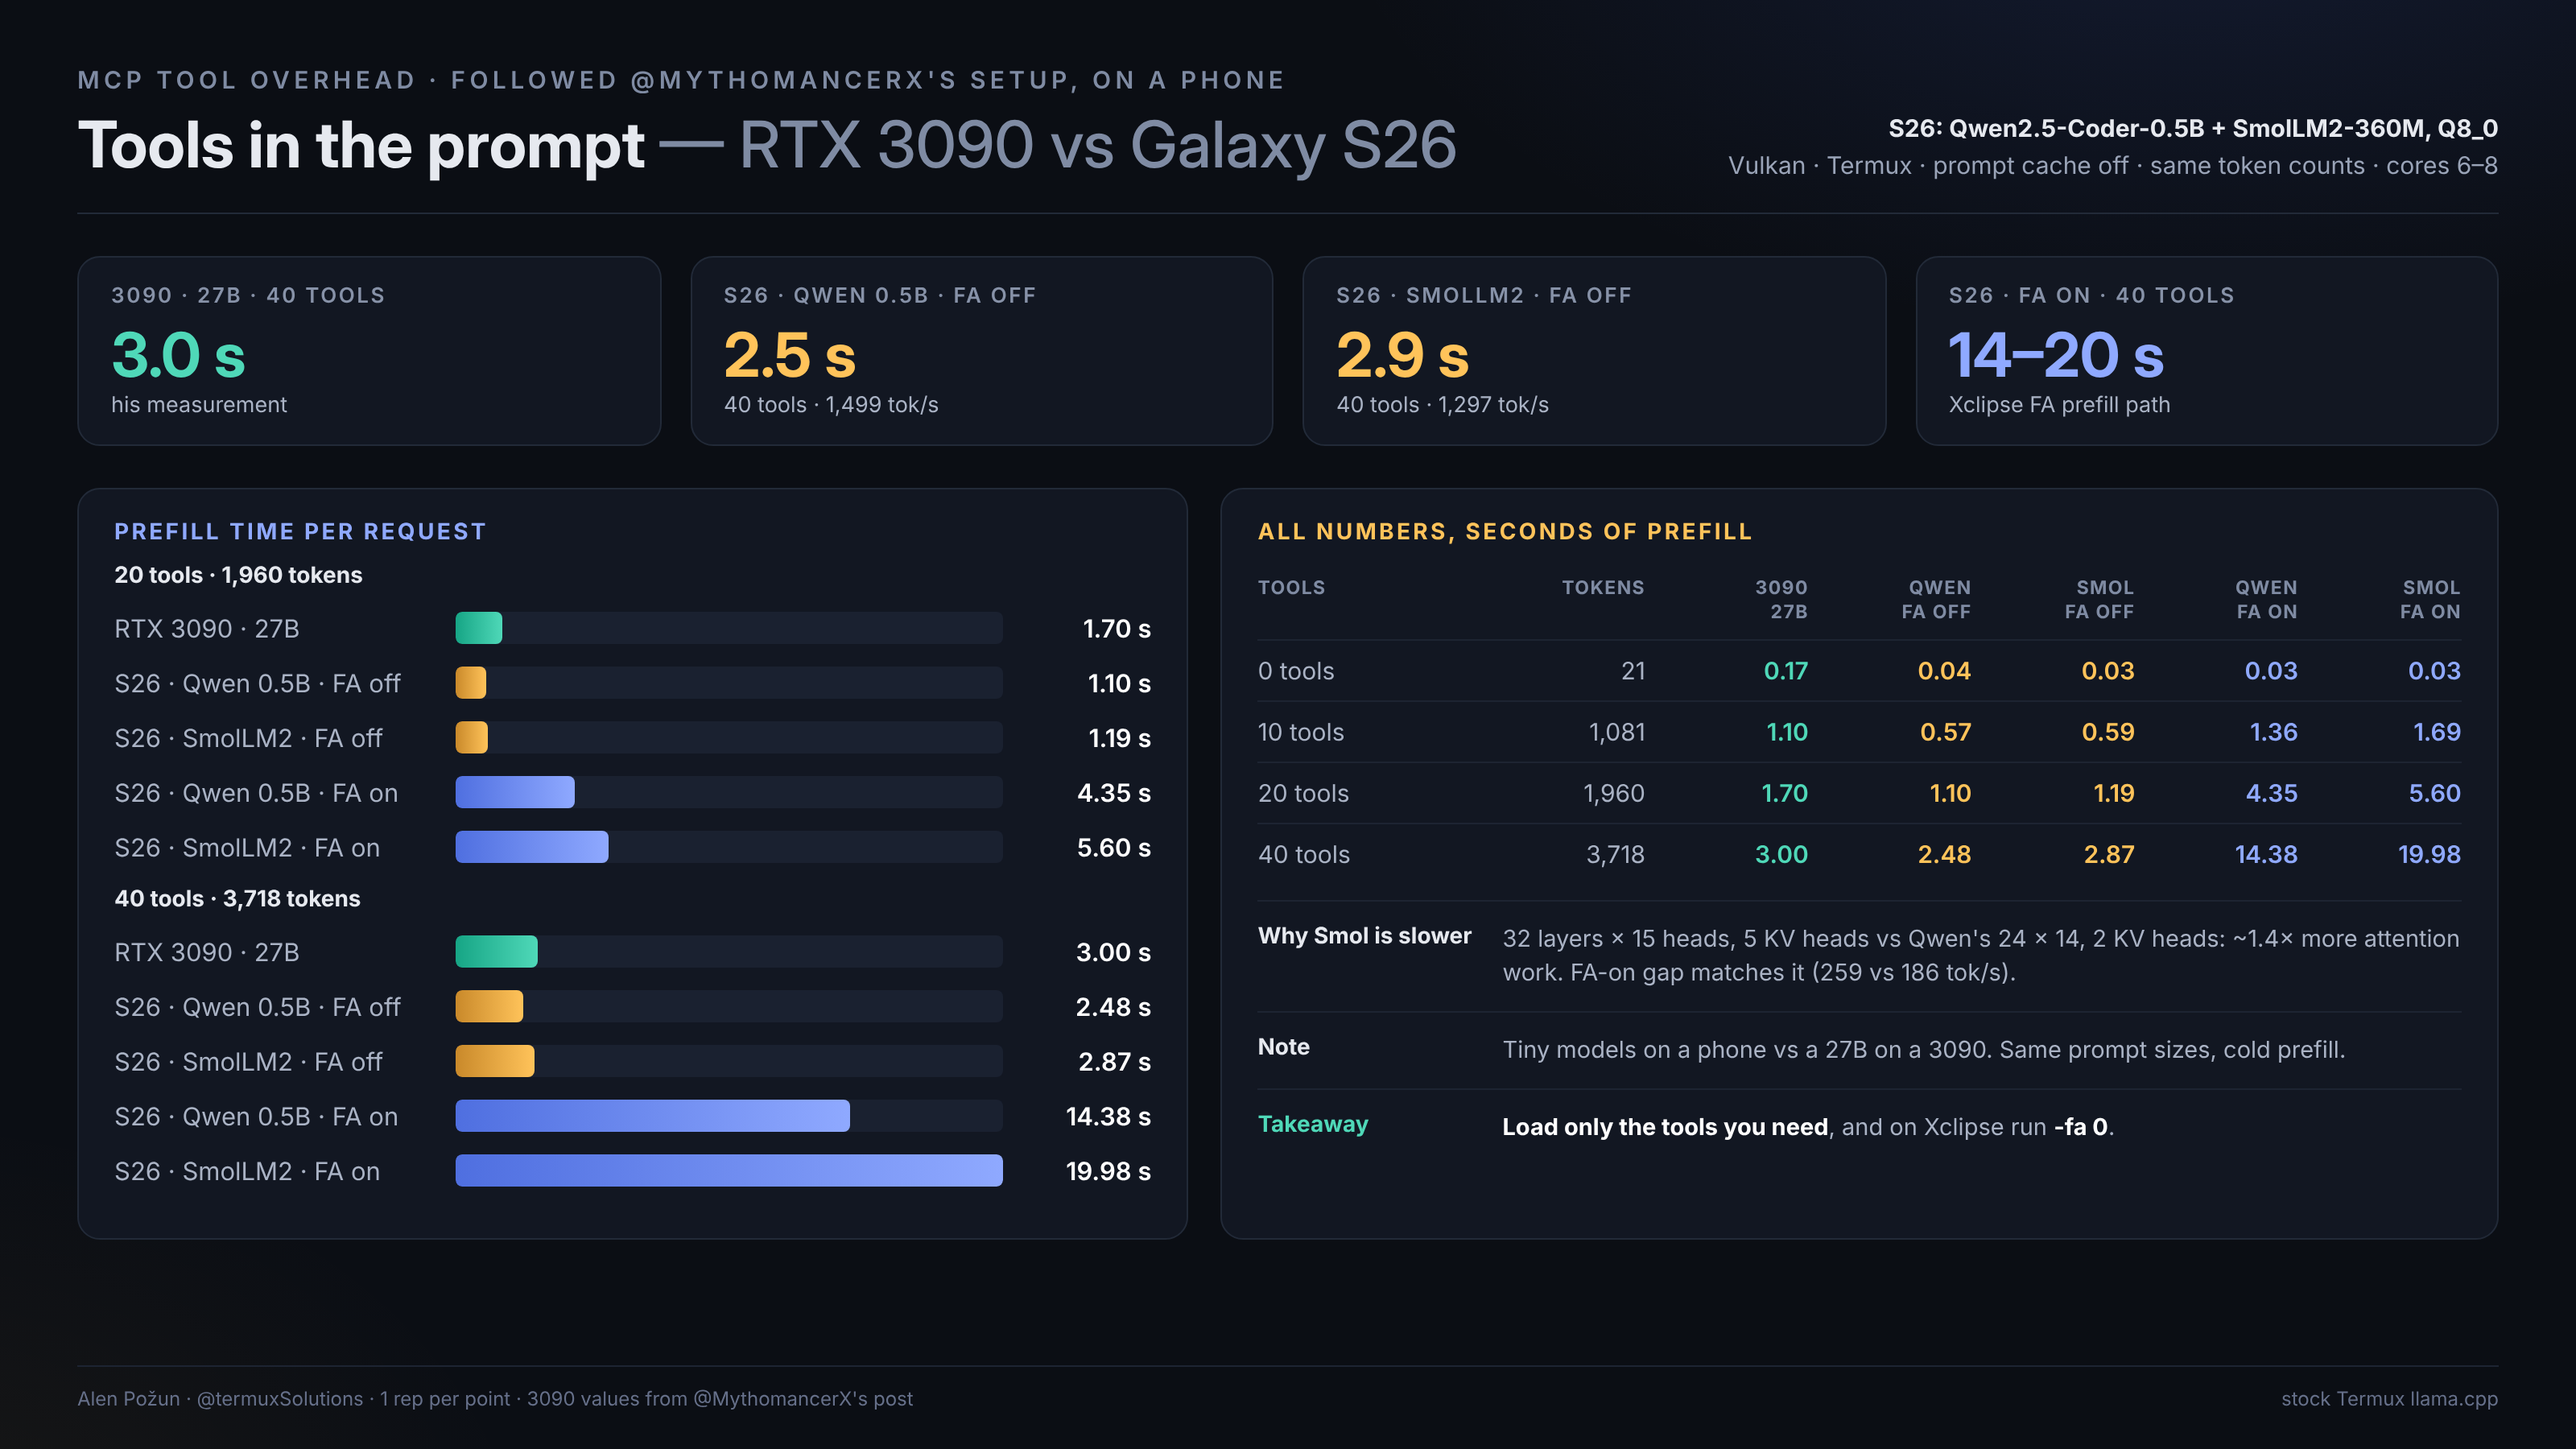
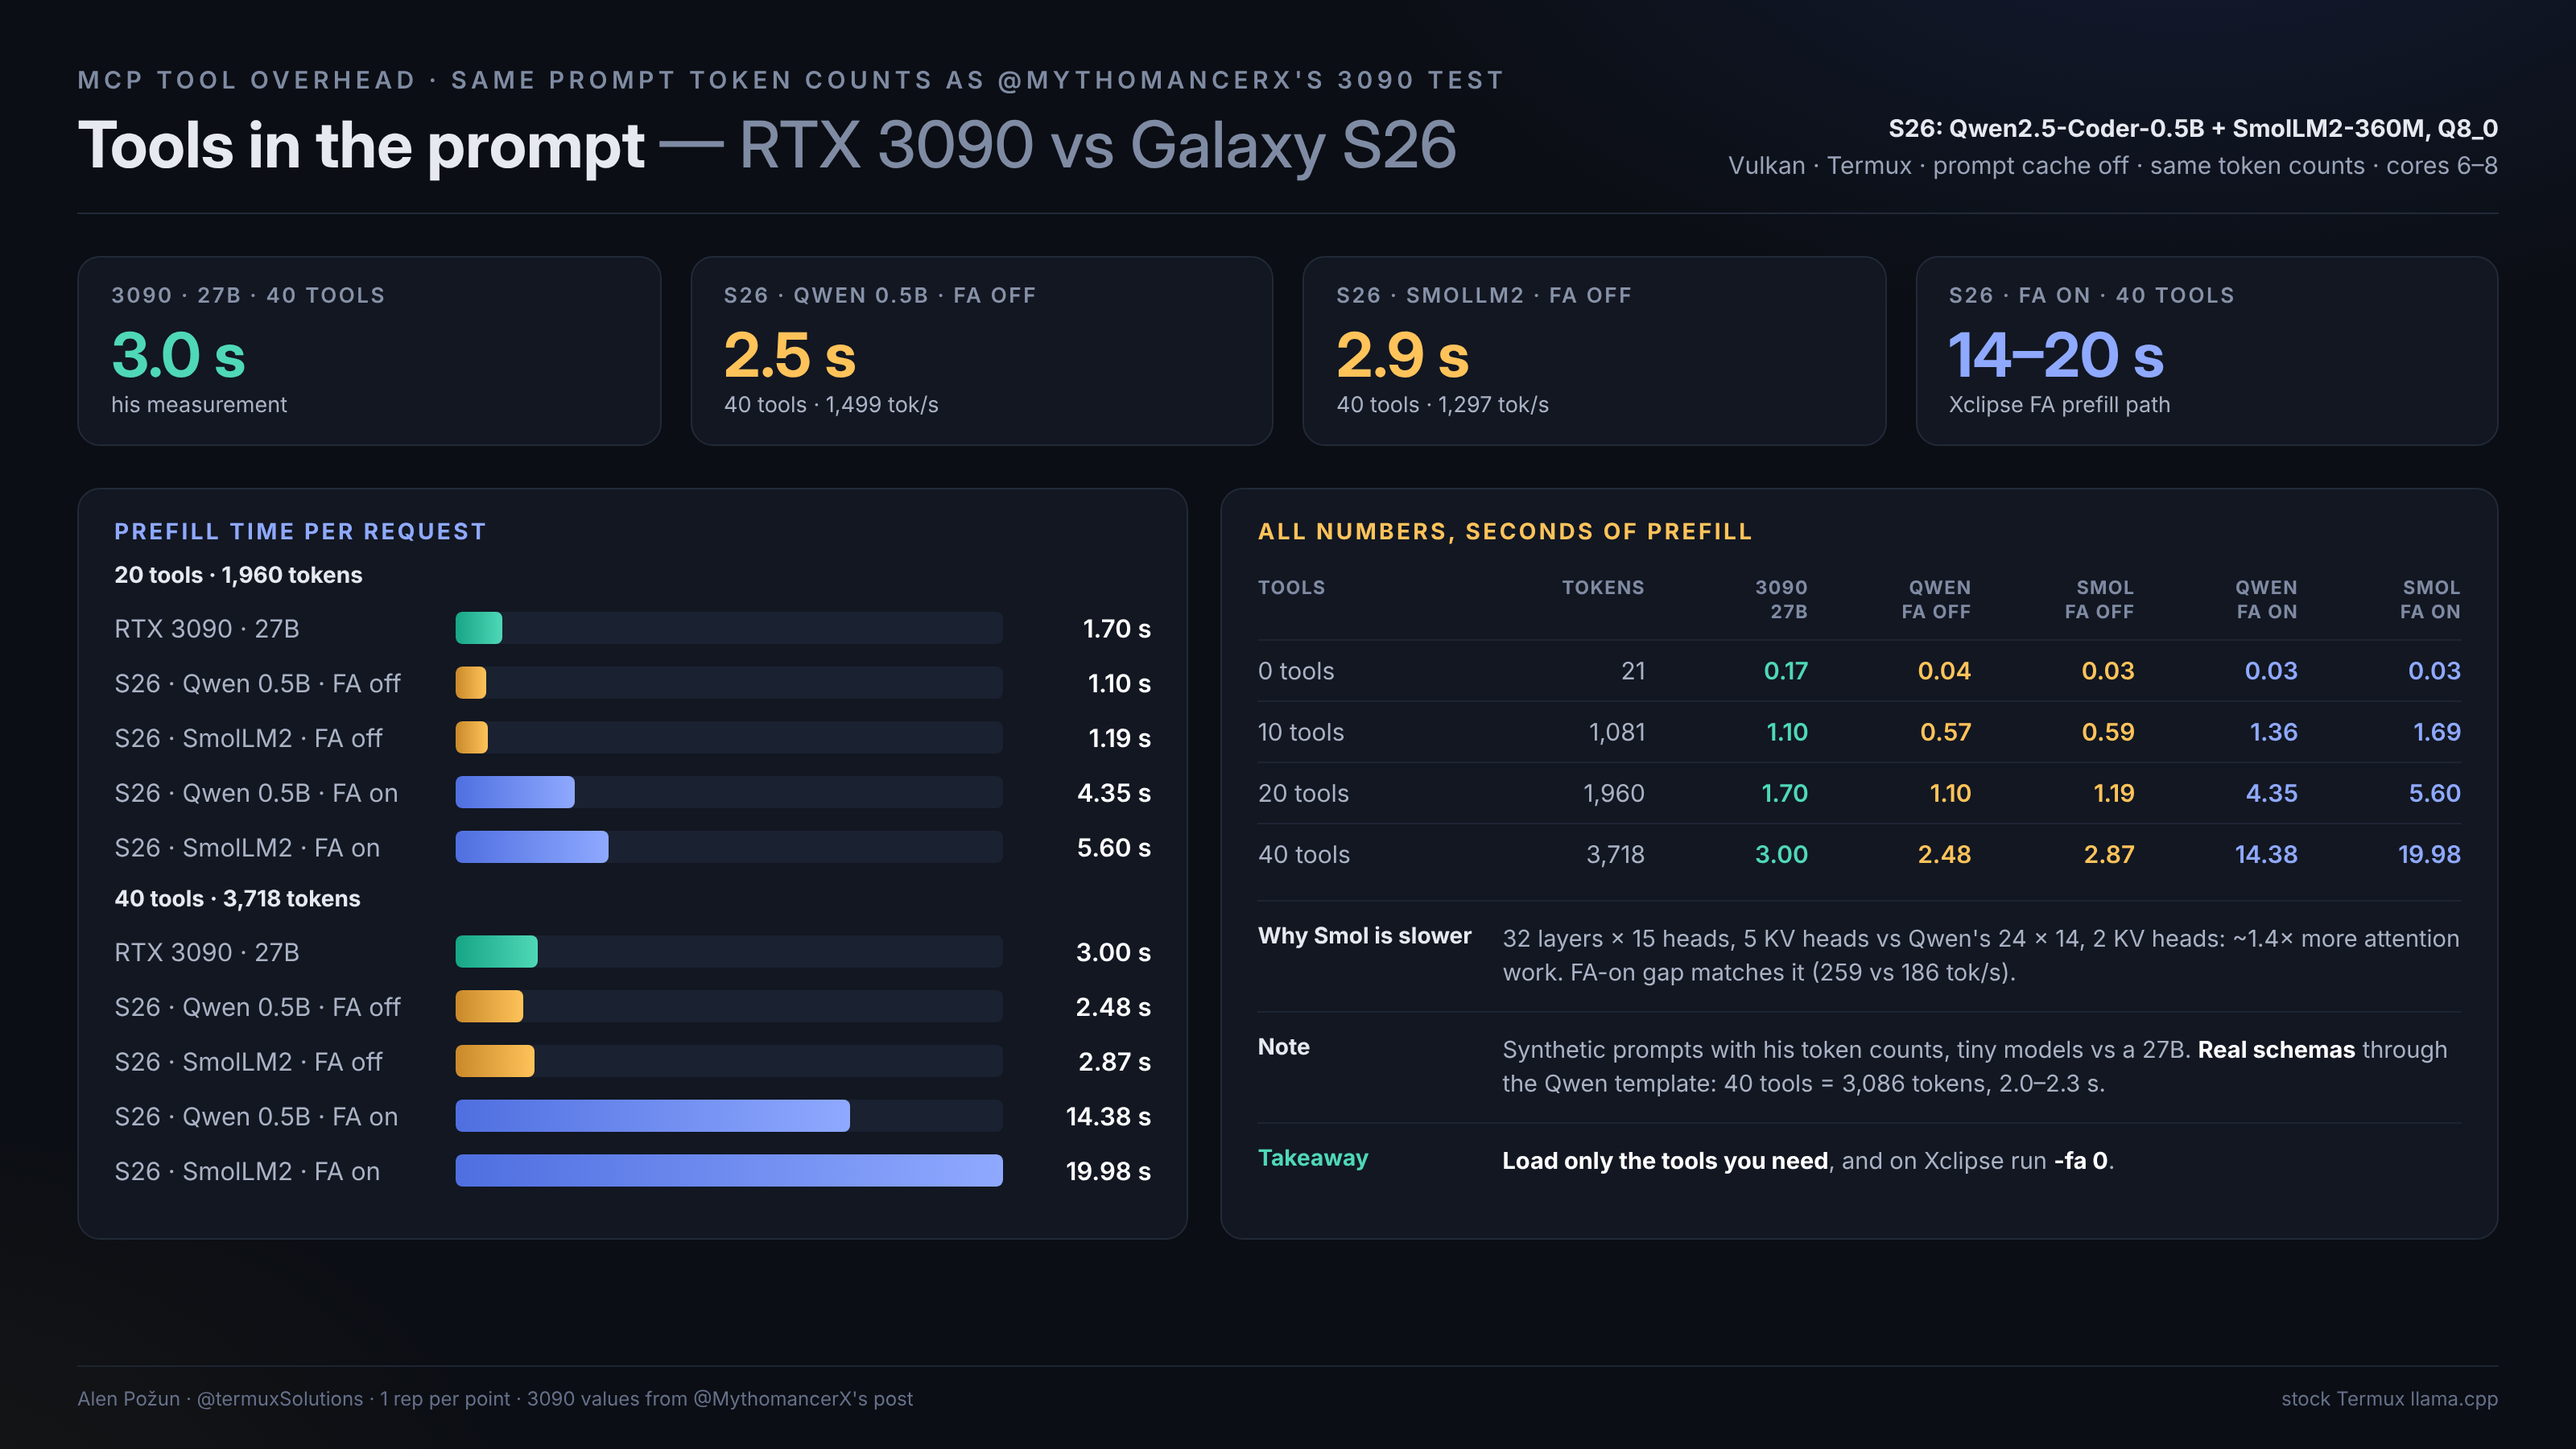
Add the real tool-schema and KV-cache tests; label section 8 as synthetic
Claude-Session: https://claude.ai/code/session_0193sKbznwoxY3u5jB7anD2D

Changed region(s): [[0.5938, 0.7156, 0.9375, 0.8089], [0.1875, 0.0311, 0.5938, 0.0622], [0.5, 0.7467, 0.5312, 0.8089]]

diff --git a/RESULTS.md b/RESULTS.md
@@ -84,8 +84,8 @@ Conclusion: FA-on prefill drops ~9–10× at 4K on both models, independent of u
 - Long chats / pasted documents: GPU, stock build, -ngl 40 -fa 0, cores 6–8, -t 3 → ~800 tok/s prompt at 4K, ~60 tok/s generation.
 - KV cache f16.
 
-## 8. Tool-definition overhead (MCP-style prompts), cold prefill
-Same prompt sizes as an RTX 3090 / Qwen 27B Q4_K_M measurement posted by @MythomancerX (0/10/20/40 tools = 21/1,081/1,960/3,718 tokens). Cores 6–8, -t 3, -ngl 40, prompt cache off. Seconds of prefill = tokens / pp tok/s.
+## 8. Tool-definition overhead, synthetic prompts (same token counts), cold prefill
+These are synthetic prompts (llama-bench), not real tool schemas: only the prompt sizes match an RTX 3090 / Qwen 27B Q4_K_M measurement posted by @MythomancerX (0/10/20/40 tools = 21/1,081/1,960/3,718 tokens). Cores 6–8, -t 3, -ngl 40, prompt cache off. Seconds of prefill = tokens / pp tok/s.
 | tools | tokens | 3090 27B (his) | Qwen2.5-0.5B FA off | SmolLM2 FA off | Qwen2.5-0.5B FA on | SmolLM2 FA on |
 |---|---|---|---|---|---|---|
 | 0 | 21 | 0.17 s | 0.04 s (546 tok/s) | 0.03 s (654) | 0.03 s (608) | 0.03 s (778) |
@@ -93,3 +93,28 @@ Same prompt sizes as an RTX 3090 / Qwen 27B Q4_K_M measurement posted by @Mythom
 | 20 | 1,960 | 1.7 s | 1.10 s (1,788) | 1.19 s (1,643) | 4.35 s (450) | 5.60 s (350) |
 | 40 | 3,718 | 3.0 s | 2.48 s (1,499) | 2.87 s (1,297) | 14.38 s (259) | 19.98 s (186) |
 SmolLM2-360M (32 layers × 15 heads, 5 KV heads) does ~1.4× more attention work than Qwen2.5-0.5B (24 × 14, 2 KV heads); the FA-on gap (259 vs 186 tok/s) matches that ratio.
+
+## 9. Real tool schemas through the chat template (real_tools_test.sh)
+40 real JSON tool schemas (file, git, web; 10 distinct, repeated to 40), rendered by the model's own chat template in llama-server (--jinja), prompt cache off, FA off, cores 6–8, -t 3, -ngl 40, 2 runs each. Token counts come from the server response. Schemas are my own, not identical to the 3090 test, so this is not 1:1.
+
+Qwen2.5-Coder-0.5B Q8_0:
+| tools | prompt tokens | prefill ms (run 1 / run 2) | tok/s (run 1 / run 2) |
+|---|---|---|---|
+| 0 | 37 | 298 / 68 | 124 / 547 |
+| 10 | 842 | 470 / 476 | 1,792 / 1,770 |
+| 20 | 1,590 | 1,252 / 911 | 1,270 / 1,746 |
+| 40 | 3,086 | 2,273 / 2,026 | 1,358 / 1,523 |
+About 76 tokens per tool on this template (the 3090 test reported ~87 per tool on its template and schemas). The first 0-tool run includes warm-up.
+
+## 10. Quantized KV cache with flash attention off (SmolLM2-360M, 4K depth, pp256 / tg64)
+| build | K / V | pp256 | tg64 |
+|---|---|---|---|
+| stock | f16 / f16 | 772.6 | 60.0 |
+| stock | q8_0 / f16 | 137.2 | 13.2 |
+| stock | q8_0 / q8_0 | refused | refused |
+| stock | q4_0 / q4_0 | refused | refused |
+| custom | f16 / f16 | 694.1 | 60.5 |
+| custom | q8_0 / f16 | 246.9 | 10.5 |
+| custom | q8_0 / q8_0 | refused | refused |
+| custom | q4_0 / q4_0 | refused | refused |
+Refusal message: "quantized V cache requires flash_attn to be enabled". K-only quantization loads without FA but is 3–6× slower on this device. On Xclipse the practical choice is FA (slow prefill at depth) or f16 KV (more memory).
